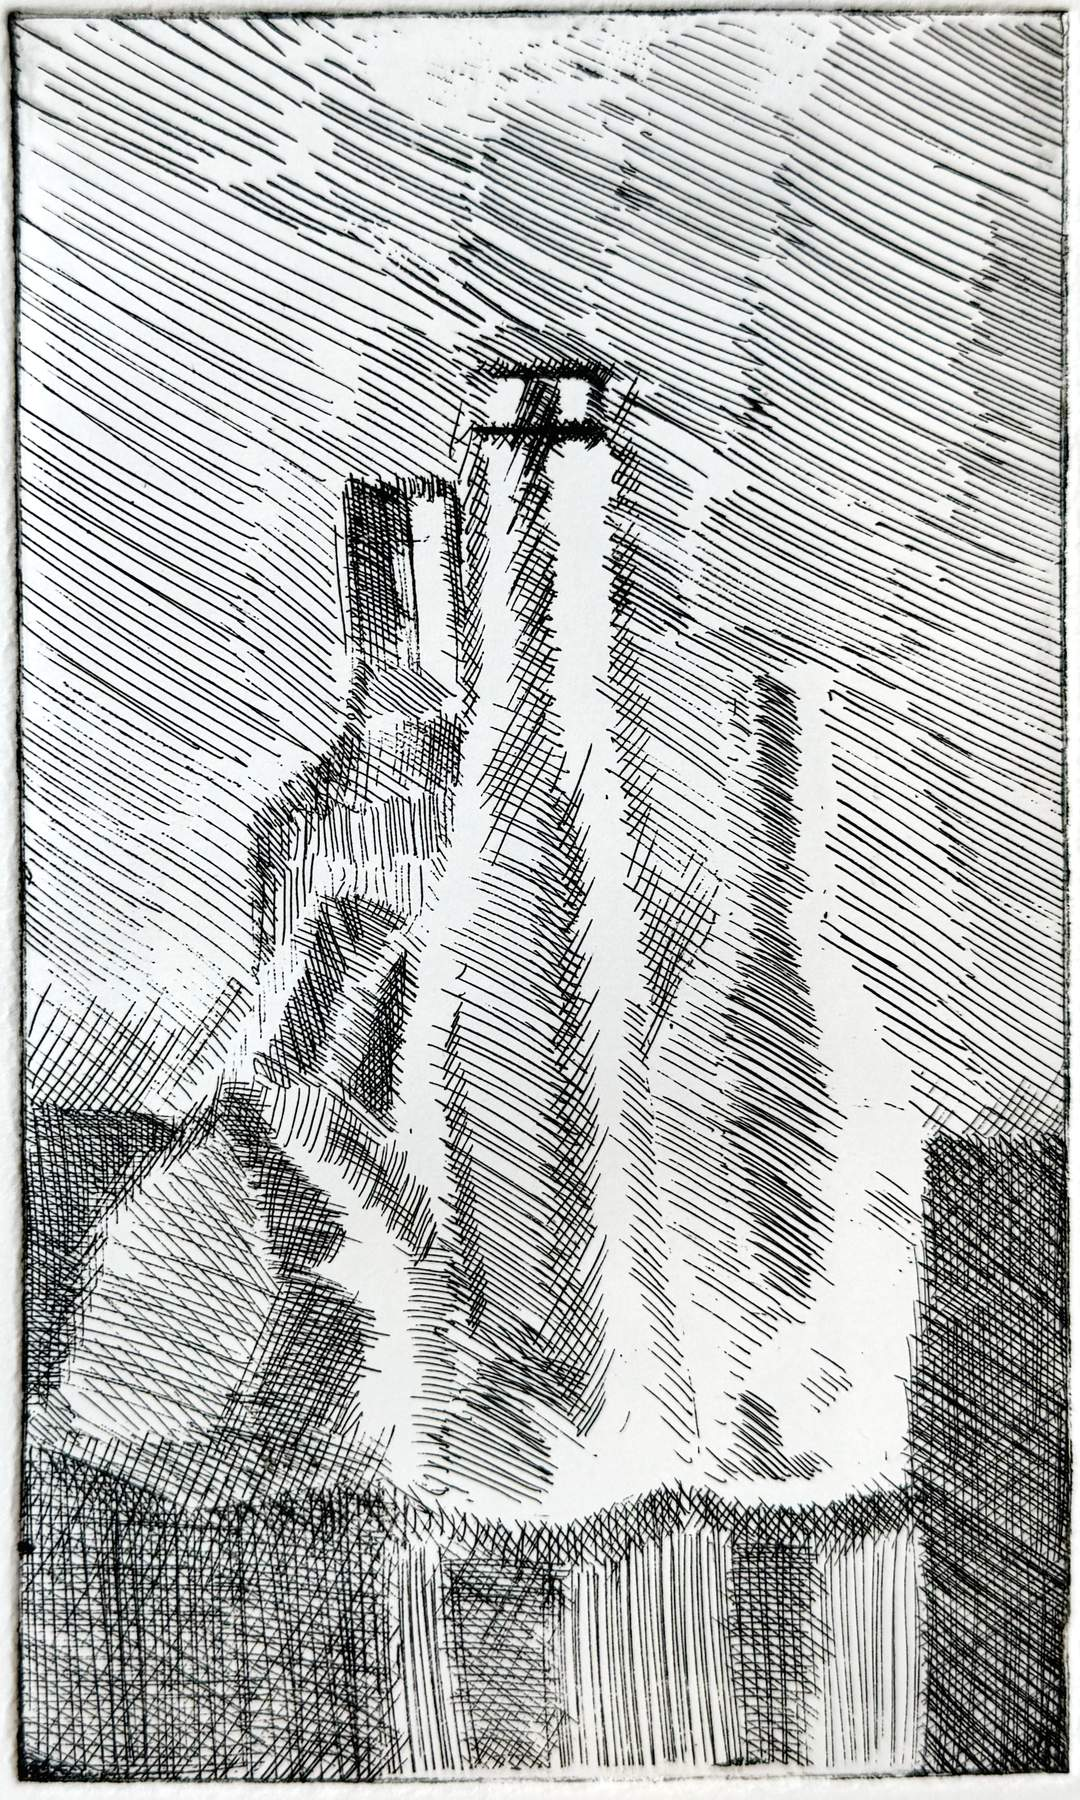
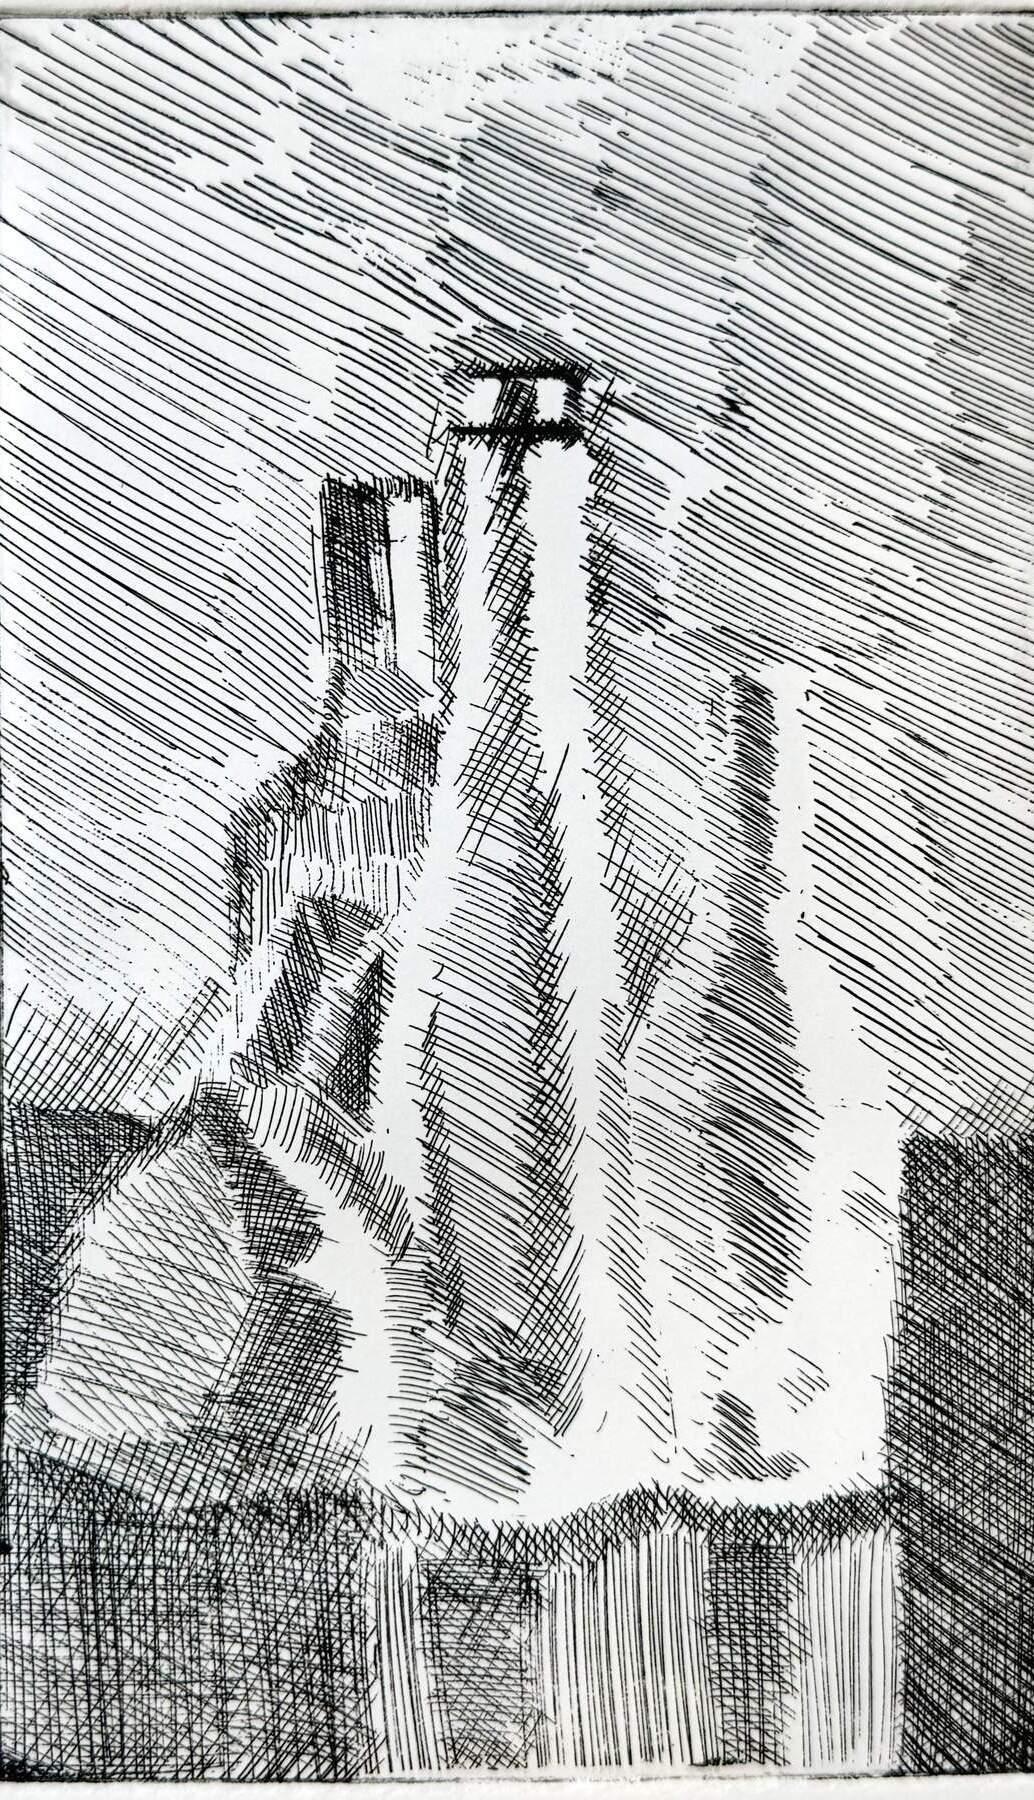
Printmaking: tidy figure sizes and drop a repeated reflection paragraph
Centre 006, 010, 013 at the same size as 012; make 014 smaller and
left-aligned; shrink and centre 002 and 003, cropping 002 to match
003's dimensions exactly. Remove the duplicated "None of these things
feels incidental" paragraph from the reflection.

diff --git a/project-six.html b/project-six.html
@@ -258,26 +258,26 @@
           <figcaption><span class="ref-no">001</span> First print, hard ground etching</figcaption>
         </figure>
 
-        <figure class="int-fig" style="--col: 1 / 7; --col-m: 1 / 7; --w: 1080px">
+        <figure class="int-fig" style="--col: 3 / 7; --col-m: 2 / 7; --w: 1034px">
           <button type="button" class="int-shot"
                   data-full="images/print-002-morandi-still-life-full.jpg"
                   data-caption="002 · Second etching, inspired by Morandi">
             <img src="images/print-002-morandi-still-life-thumb.jpg"
-                 srcset="images/print-002-morandi-still-life-thumb.jpg 480w, images/print-002-morandi-still-life-full.jpg 1080w"
-                 sizes="50vw"
-                 width="480" height="800" loading="lazy" decoding="async"
+                 srcset="images/print-002-morandi-still-life-thumb.jpg 460w, images/print-002-morandi-still-life-full.jpg 1034w"
+                 sizes="(min-width: 760px) 33vw, 42vw"
+                 width="460" height="800" loading="lazy" decoding="async"
                  alt="Black-and-white etching of a still life after Morandi: a cluster of tall bottles and vessels left mostly white, set against a background of dense diagonal hatching, with cross-hatched blocks at either side and across the table below.">
           </button>
           <figcaption><span class="ref-no">002</span> Second etching, inspired by Morandi</figcaption>
         </figure>
 
-        <figure class="int-fig" style="--col: 7 / 13; --col-m: 7 / 13; --w: 1034px">
+        <figure class="int-fig" style="--col: 7 / 11; --col-m: 7 / 12; --w: 1034px">
           <button type="button" class="int-shot"
                   data-full="images/print-003-morandi-soft-ground-full.jpg"
                   data-caption="003 · Second state of the same plate, with soft ground added on top to emphasise the tones">
             <img src="images/print-003-morandi-soft-ground-thumb.jpg"
                  srcset="images/print-003-morandi-soft-ground-thumb.jpg 460w, images/print-003-morandi-soft-ground-full.jpg 1034w"
-                 sizes="50vw"
+                 sizes="(min-width: 760px) 33vw, 42vw"
                  width="460" height="800" loading="lazy" decoding="async"
                  alt="Second state of the Morandi still-life etching: the same bottles and hatched background, now with soft, grainy grey tone over the bottle on the left and the shapes beside it, deepening the shadows.">
           </button>
@@ -310,7 +310,7 @@
           <figcaption><span class="ref-no">005</span> Second and final state of the ear, hard ground</figcaption>
         </figure>
 
-        <figure class="int-fig" style="--col: 1 / 9; --w: 1800px">
+        <figure class="int-fig" style="--col: 3 / 11; --w: 1800px">
           <button type="button" class="int-shot"
                   data-full="images/print-006-landscape-soft-ground-full.jpg"
                   data-caption="006 · Landscape, soft ground">
@@ -368,13 +368,13 @@
           <figcaption><span class="ref-no">009</span> In progress: the plate for my final hard ground etching, a still life</figcaption>
         </figure>
 
-        <figure class="int-fig" style="--col: 2 / 12; --w: 1800px">
+        <figure class="int-fig" style="--col: 3 / 11; --w: 1800px">
           <button type="button" class="int-shot"
                   data-full="images/print-010-still-life-first-state-full.jpg"
                   data-caption="010 · Print of the first state, after the hard ground">
             <img src="images/print-010-still-life-first-state-thumb.jpg"
                  srcset="images/print-010-still-life-first-state-thumb.jpg 800w, images/print-010-still-life-first-state-full.jpg 1800w"
-                 sizes="(min-width: 760px) 83vw, 100vw"
+                 sizes="(min-width: 760px) 67vw, 100vw"
                  width="800" height="799" loading="lazy" decoding="async"
                  alt="Black-and-white hard ground etching of the still life in line only: a tall cross-hatched bottle, a glass outlined in hatching, a pear with a curling stem and a second bottle behind, on draped cloth drawn in loose parallel strokes, with an empty pale background.">
           </button>
@@ -407,26 +407,26 @@
           <figcaption><span class="ref-no">012</span> Final print of the still life</figcaption>
         </figure>
 
-        <figure class="int-fig" style="--col: 1 / -1; --col-m: 1 / -1; --w: 1800px">
+        <figure class="int-fig" style="--col: 3 / 11; --w: 1800px">
           <button type="button" class="int-shot"
                   data-full="images/print-013-still-life-chine-colle-full.jpg"
                   data-caption="013 · Another final print, with colour added in tissue paper (chine-collé)">
             <img src="images/print-013-still-life-chine-colle-thumb.jpg"
                  srcset="images/print-013-still-life-chine-colle-thumb.jpg 800w, images/print-013-still-life-chine-colle-full.jpg 1800w"
-                 sizes="100vw"
+                 sizes="(min-width: 760px) 67vw, 100vw"
                  width="800" height="800" loading="lazy" decoding="async"
                  alt="The same still-life etching printed with a piece of orange-brown tissue paper under the pear, so the pear alone is in colour against the black and grey bottles, glass and cloth.">
           </button>
           <figcaption><span class="ref-no">013</span> Another final print, with colour added in tissue paper (chine-collé)</figcaption>
         </figure>
 
-        <figure class="int-fig" style="--col: 1 / -1; --col-m: 1 / -1; --w: 1800px">
+        <figure class="int-fig" style="--col: 1 / 6; --col-m: 1 / 9; --w: 1800px">
           <button type="button" class="int-shot"
                   data-full="images/print-014-chine-colle-pear-detail-full.jpg"
                   data-caption="014 · Detail of the chine-collé pear">
             <img src="images/print-014-chine-colle-pear-detail-thumb.jpg"
                  srcset="images/print-014-chine-colle-pear-detail-thumb.jpg 800w, images/print-014-chine-colle-pear-detail-full.jpg 1800w"
-                 sizes="100vw"
+                 sizes="(min-width: 760px) 42vw, 67vw"
                  width="800" height="800" loading="lazy" decoding="async"
                  alt="Close-up of the pear in the chine-collé print: torn orange, red and yellow tissue paper showing through the etched cross-hatching, against the grey aquatint and white cloth.">
           </button>
@@ -447,7 +447,6 @@
           <p>There is a magic to this whole process that I haven’t fully put my finger on (if I could, then it wouldn’t be magic, right?). The seriousness of the materials, the ritualistic processes, the sensitivity of the plate, the lightness of reproduction, the richness of the final images... None of these things feels incidental to the others; they all speak to one another.</p>
           <p>The physical process itself has an unmistakable gravity: metal, acid, pressure, thick &amp; greasy ink. It is slow and ritualistic. As the ritual becomes muscle memory, we ourselves move around the studio like grooves in an etching. The final unveiling never loses its grip on us; we are willing to labour for hours for that moment, the alchemical conclusion.</p>
           <p>And then there’s the replication. A single plate can give dozens of prints--our tutor says hundreds before the metal starts to wear--each on simple, modest paper. This ability to reproduce on this modest material feels like a poetic counterpoint to the heaviness and weight of the creation process itself. Then there’s the historical association with politics, concealment, darkness — the inky prints mirror their subjects in more ways than one.</p>
-          <p>None of these things feels incidental to the others. There’s a resonance between the process, the medium, and the subject matter (it's funny how the best subjects for this material/process are almost often something dark, mysterious, and concealed)</p>
           <p>Even the atmosphere in the print room seemed to reflect this harmony. I felt like everyone could sense that there was something special about what we were doing.</p>
         </div>
 
